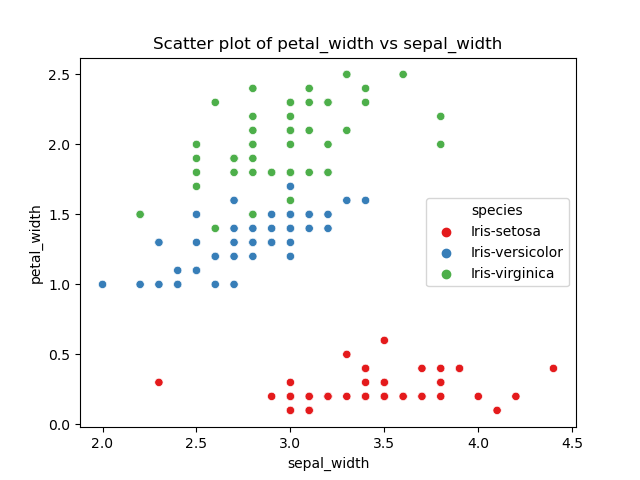
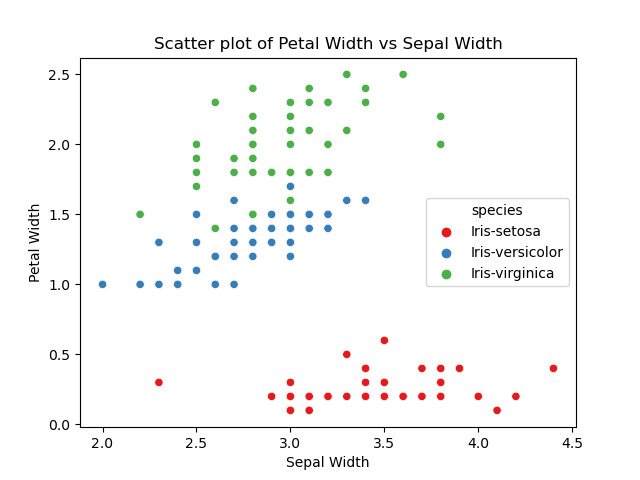
changed variable names of hist and scatter function, added comments to py file, other random stuff

diff --git a/analysis.py b/analysis.py
@@ -3,39 +3,42 @@ import pandas as pd
 import matplotlib.pyplot as plt
 import seaborn as sns
 
-iris = pd.read_csv("iris.data", header = None)
+# Setting up seaborn palette of 'Set1'
+sns.set_palette("Set1")
 
-# Having a look at the data set, checking that it loaded. 
+# Import the data set, add headings to the columns.
+iris = pd.read_csv("iris_data.csv", names = ['sepal_length', 'sepal_width', 'petal_length', 'petal_width', 'species'])
+
+# Check that the data set has loaded. 
 head = f'The first five rows of the data set are: \n {iris.head()}\n \n'
 
+# Open and write the head of the data set to analysis.txt.
 with open('analysis.txt', 'wt') as f:
     f.write(head)
 
-# Add column names
-iris.columns = ['sepal_length', 'sepal_width', 'petal_length', 'petal_width', 'species']
-add_header = f'Checking that the column names are correct: \n {iris.head()}\n \n'
+#### Output a summary of each variable to a single txt file, analysis.txt ####
 
-with open('analysis.txt', 'a') as f:
-    f.write(add_header)
+# Collating the necessary infomation for analysis.txt
 
-# Summary of the variables and data types in the data set
-info = f'Summary of the variables and the data types in the data set {iris.info()} \n\n'
+# Get the number of rows and columns in the data set.
+shape = f'The shape of the data set is {iris.shape}. \n\n'
 
+# Get the variable names.
+column_names = f'Summary of the variable names in the data set are: \n {iris.columns} \n\n'
+
+# Get the data types of the variables.
 data_types = f'The data types in the data set are: \n{iris.dtypes}\n \n'
 
-# Looking for missing data, NaN
+# Look for missing data, NaN
 missing_values = f'Checking to see if there is any missing data or NaN. \n{iris.isna().sum()} \n \n'
 
-
-# Uniques names of flower species
+# Uniques names in the species column.
 unique = f"The unique names in the species column are: \n {iris['species'].unique()} \n\n"
 
-
-# Summary statistics of the data set
+# Summary statistics for the overall the data set
 summary_statistics = f'Overall summary statistics for the data set. \n{iris.describe()} \n\n'
 
-
-# Creating dataframes for each iris species.
+# Create dataframes for each iris species.
 setosa = iris[iris['species'] == 'Iris-setosa']
 versicolor = iris[iris['species'] == 'Iris-versicolor']
 virginica = iris[iris['species'] == 'Iris-virginica']
@@ -44,17 +47,18 @@ virginica = iris[iris['species'] == 'Iris-virginica']
 # Summary Statistics for Iris setosa
 setosa_summary = f'Summary statistics for Iris setosa are: \n{setosa.describe()} \n\n'
 
-
 # Summary Statistics for Iris versicolor
 versicolor_summary = f'Summary statistics for Iris versicolor are: \n{versicolor.describe()} \n\n'
-
 
 # Summary Statistics for Iris virginica
 virginica_summary = f'Summary statistics for Iris virginica are: \n{virginica.describe()} \n\n'
 
-# Write summary statistics to analysis.txt
+# Write the summary statistics to analysis.txt
+# Append them to the analysis.txt file created previously
+
 with open('analysis.txt', 'a') as f:
-    f.write(info)
+    f.write(shape)
+    f.write(column_names)
     f.write(data_types)
     f.write(missing_values)
     f.write(unique)
@@ -63,78 +67,115 @@ with open('analysis.txt', 'a') as f:
     f.write(versicolor_summary)
     f.write(virginica_summary)
 
-sns.set_palette("Set1")
 
-# Comparing summary statistics across the three species.
-fig, axes = plt.subplots(2,2, figsize = (10, 10))
-sns.boxplot(ax = axes[0, 0], x = 'species', y = 'sepal_length', data = iris)
-sns.boxplot(ax = axes[0, 1], x = 'species', y= 'sepal_width', data = iris)
-sns.boxplot(ax = axes[1, 0], x = 'species', y = 'petal_length', data = iris)
-sns.boxplot(ax = axes[1, 1], x = 'species', y = 'petal_width', data = iris)
+# Create a box plot to visually compare the summary statistics across the three species in the data set.
+
+# Create a fig, ax plot
+fig, ax = plt.subplots(2,2, figsize = (10, 10))
+
+# Create a box plot for each variable, coloured by species.
+sns.boxplot(ax = ax[0, 0], x = 'species', y = 'sepal_length', data = iris)
+sns.boxplot(ax = ax[0, 1], x = 'species', y= 'sepal_width', data = iris)
+sns.boxplot(ax = ax[1, 0], x = 'species', y = 'petal_length', data = iris)
+sns.boxplot(ax = ax[1, 1], x = 'species', y = 'petal_width', data = iris)
+
+# Overall plot title
 plt.suptitle('Box plot by Species for Each Variable')
-axes[0,0].set_title('Sepal Length')
-axes[0,1].set_title('Sepal Width')
-axes[1,0].set_title('Petal Length')
-axes[1,1].set_title('Petal Width')
-plt.savefig('C:\\Users\\Martin\\Desktop\\pands\\pands-project\\plots\\Boxplot.png')
+
+# Label each plot
+ax[0,0].set_title('Sepal Length')
+ax[0,1].set_title('Sepal Width')
+ax[1,0].set_title('Petal Length')
+ax[1,1].set_title('Petal Width')
+
+# Save the created plot
+plt.savefig('C:\\Users\\Martin\\Desktop\\pands\\pands-project\\plots\\Box_plot.png')
 plt.close()
 
-#### Histogram #####
+#### Save a histogram of each variable to png files #####
 
-# Save a histogram of each variable to png files
+# Save a histogram of each variable to png files.
+# Creating a function that iterateds through the data set, would ideally like to generalise more so that it could in theory be used for any data set.
+
 def plot_hist(df):
-    for col in df:
+    for x in df:
         #sns.set_palette("Set1")
-        sns.histplot(x = col, data = df, hue = 'species')
-        plt.title(f"Histogram of {col.title().replace('_', ' ')}")
-        plt.xlabel(f"{col.replace('_', ' ')}")
-        plt.savefig(f'C:\\Users\\Martin\\Desktop\\pands\\pands-project\\plots\\Histogram_of_{col}.png')
+        sns.histplot(x = x, data = df, hue = 'species')
+        plt.title(f"Histogram of {x.title().replace('_', ' ')}")
+        plt.xlabel(f"{x.replace('_', ' ')}")
+        plt.savefig(f'C:\\Users\\Martin\\Desktop\\pands\\pands-project\\plots\\Histogram_of_{x}.png')
         #plt.show()
         plt.close()
 
 plot_hist(iris)
 
-#### Scatter plot of each pair of variables
-fig, ax = plt.subplots()
+#### Output a scatter plot of each pair of variables ####
 
-for col1 in iris:
-    for col2 in iris:
-        if col1 == col2 or col1 == 'species' or col2 == 'species':
-            continue
-        else:
-            sns.scatterplot(data = iris, x = col1, y = col2, hue = 'species')
-            plt.title(f"Scatter plot of {col2.title().replace('_', ' ')} vs {col1.title().replace('_', ' ')}")
-            plt.xlabel(f"{col1.title().replace('_', ' ')}")
-            plt.ylabel(f"{col2.title().replace('_', ' ')}")
-            plt.savefig(f'C:\\Users\\Martin\\Desktop\\pands\\pands-project\\plots\\Scatterplot_{col2}_vs_{col1}.png')
-            plt.close()
+# Creating a function
 
-# Outputs a scatter plot of each pair of variables
-sns.pairplot(iris, hue = 'species')
-plt.suptitle('Pair Plot of the Numeric Variables in the Iris Data Set', y = 1.05)
+# How would I improve it, 
+    # 1. generalise it more, if x or y are an object data type, skip 
+    # 2. only 1 of plot of each eg currently getting petal length vs petal width and then petal width vs petal length. One plot would do.
+    # 
+
+def plot_scatter(df):
+    for x in df:
+        for y in df:
+            # Do not create a scatter plot for the following conditions
+            if x == y or x == 'species' or y == 'species':
+                continue
+            else:
+                # Create a scatter plot
+                sns.scatterplot(data = df, x = x, y = y, hue = 'species')
+
+                # Add title to plot
+                plt.title(f"Scatter plot of {y.title().replace('_', ' ')} vs {x.title().replace('_', ' ')}")
+
+                # Label x and y-axis
+                plt.xlabel(f"{x.title().replace('_', ' ')}")
+                plt.ylabel(f"{y.title().replace('_', ' ')}")
+
+                # Save a scatter plot for each pair of variables
+                plt.savefig(f'C:\\Users\\Martin\\Desktop\\pands\\pands-project\\plots\\Scatterplot_{y}_vs_{x}.png')
+                plt.close()
+
+plot_scatter(iris)
+
+# Use a pair plot! Much simplier method to generate a scatter plot of each pair of variables
+g = sns.pairplot(iris, hue = 'species')
+g.fig.suptitle('Pair Plot of the Numeric Variables in the Iris Data Set', y = 1.05)
 plt.savefig('C:\\Users\\Martin\\Desktop\\pands\\pands-project\\plots\\Pair_plot.png')
+plt.close
 #plt.show()
 
 
-## Any other analysis 
+#### Any other analysis ####
+
+# Create a correlation matrix between the numeric variables in the data set.
+correlation_matrix = iris.drop(['species'], axis = 1).corr()
 
 
-iris.drop(['species'], axis = 1).corr()
-plt.savefig('C:\\Users\\Martin\\Desktop\\pands\\pands-project\\plots\\Correlation_Matrix.png')
 
-
-# Heatmap of the Correlation Coefficients
+# Create a heatmap of the correlation coefficients between the variables in the data set.
 fig, ax = plt.subplots(2, 2, figsize = (12, 10))
 
+# Overall values  - not taking the flower species into account
 sns.heatmap(iris.drop(['species'], axis = 1).corr(), annot = True, ax = ax[0, 0], vmin = -0.5, vmax=1)
 ax[0,0].set_title('Overall')
+
+# Iris setosa
 sns.heatmap(setosa.drop(['species'], axis = 1).corr(), annot = True, ax = ax[0, 1], vmin = -0.5, vmax=1)
 ax[0,1].set_title('Iris setosa')
+
+# Iris versicolor
 sns.heatmap(versicolor.drop(['species'], axis = 1).corr(), annot = True, ax = ax[1, 0], vmin = -0.5, vmax=1)
 ax[1,0].set_title('Iris versicolor')
+
+# Iris virginica
 sns.heatmap(virginica.drop(['species'], axis = 1).corr(), annot = True, ax = ax[1,1], vmin = -0.5, vmax=1)
 ax[1,1].set_title('Iris virginica')
 
-
+# Add title
 plt.suptitle('Correlation Coefficients for the Iris Data Set')
 plt.savefig('C:\\Users\\Martin\\Desktop\\pands\\pands-project\\plots\\Heatmap_correlation_coefficients.png')
+plt.close()
